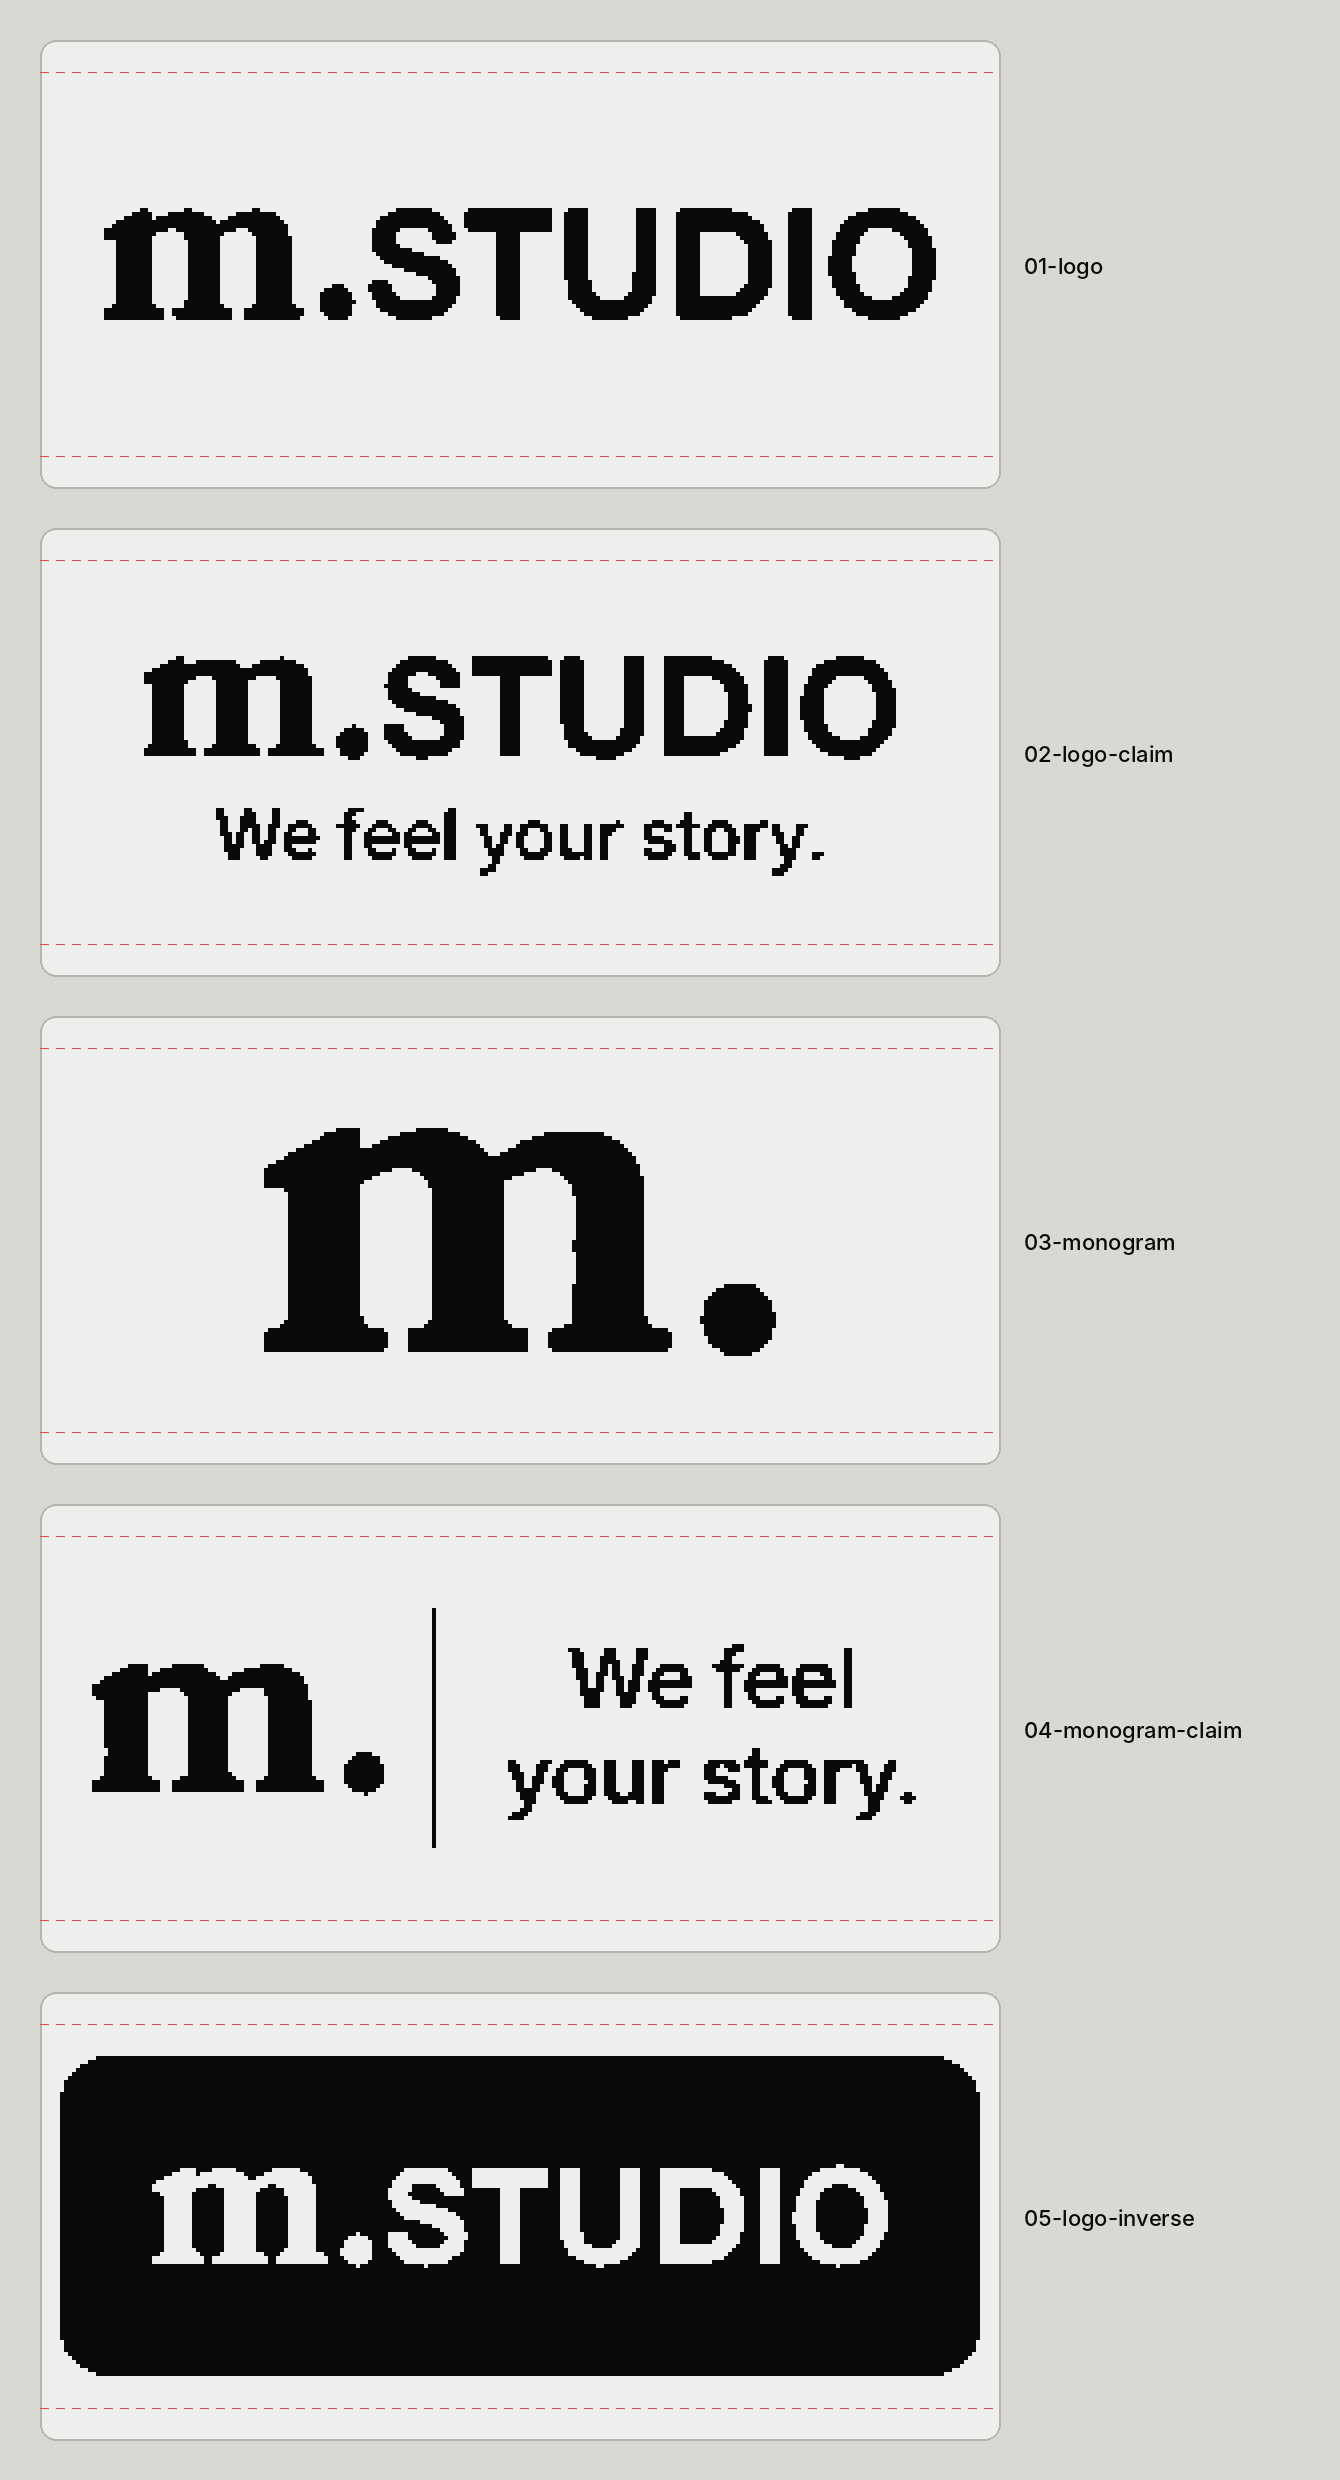
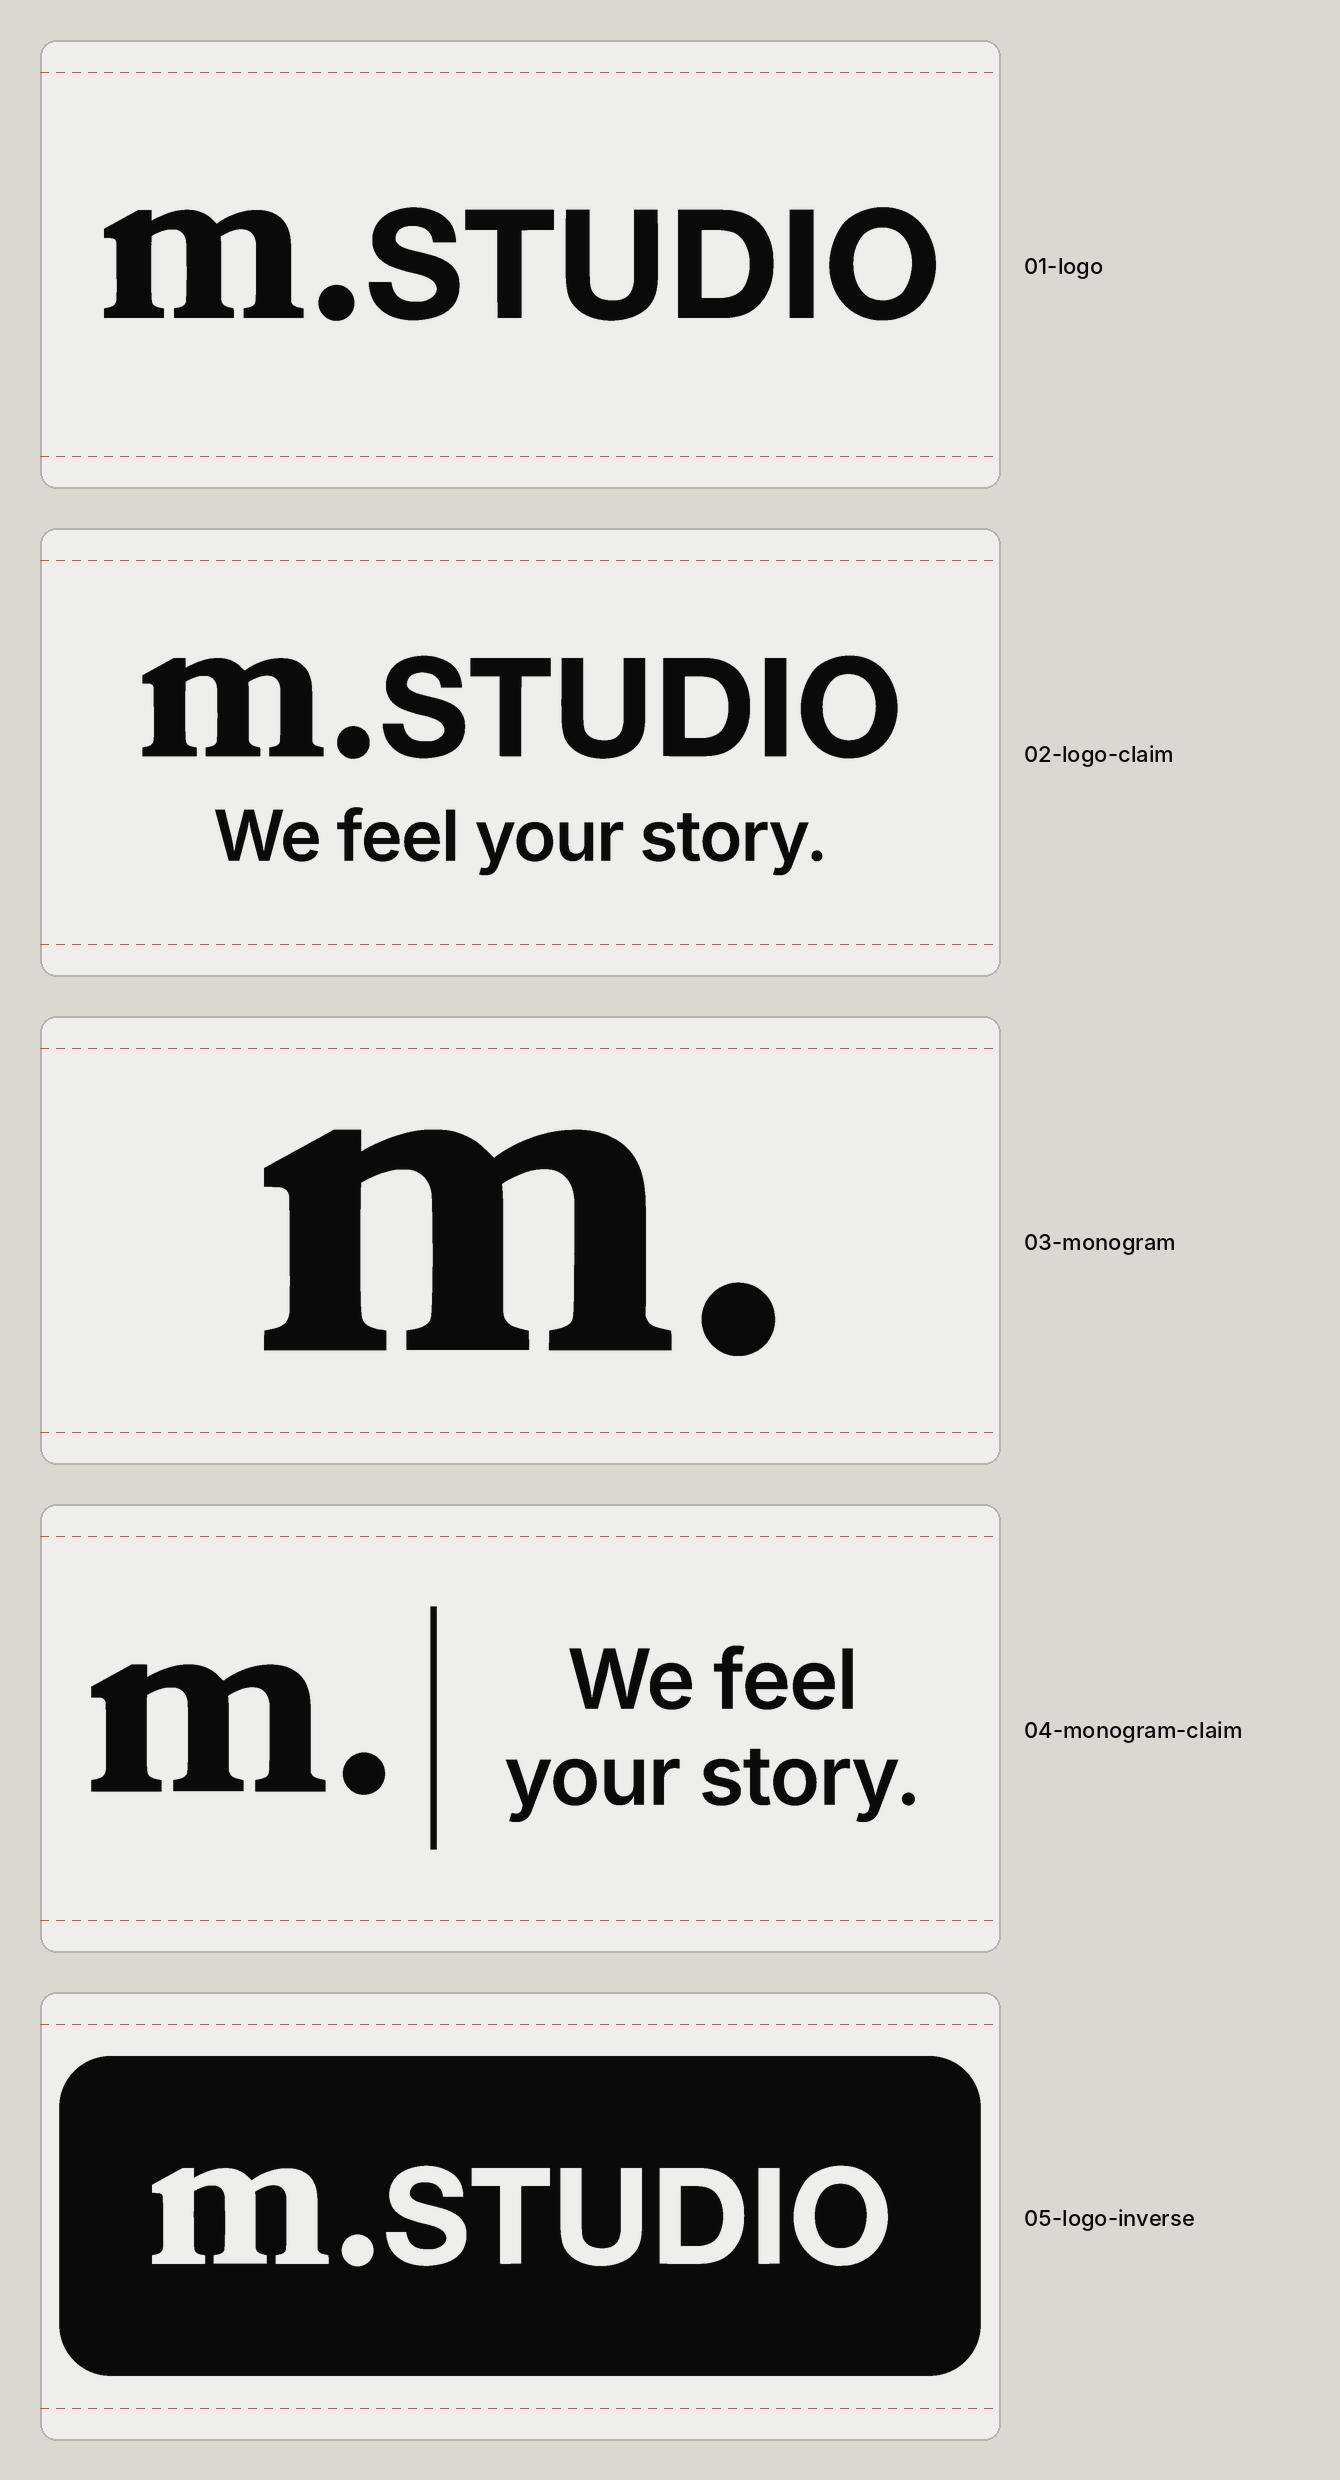
Render the D11 labels as clean high-resolution masters
2400×1120 px black-and-white masters with smooth edges for the NIIMBOT
app, and printer-dot versions area-averaged down from them.

Claude-Session: https://claude.ai/code/session_01JCP1RnrMC4K26PXU5T3zKv

Changed region(s): [[0.3672, 0.0931, 0.3978, 0.1242]]

diff --git a/design/labels/niimbot-d11/rasterize.js b/design/labels/niimbot-d11/rasterize.js
@@ -1,26 +1,23 @@
-// Renders each label SVG to print-ready PNGs at the printer's own resolution,
-// 203 dpi (D11) and 300 dpi (D11-H): 30 × 14 mm → 240 × 112 px and 354 × 165 px.
+// Renders each label SVG to a high-resolution master: 30 × 14 mm at 80 px/mm (2032 dpi),
+// 2400 × 1120 px, so curves and edges stay clean when the NIIMBOT app scales it to the printer.
 // Usage: node rasterize.js <svg-dir> <png-dir>
 const { chromium } = require("playwright");
 const fs = require("fs");
 const path = require("path");
 
 const [svgDir, pngDir] = process.argv.slice(2);
-const SIZES = { "203dpi": [240, 112], "300dpi": [354, 165] };
+const [W, H] = [2400, 1120];
 
 (async () => {
   const browser = await chromium.launch();
-  const page = await browser.newPage();
+  const page = await browser.newPage({ viewport: { width: W, height: H } });
+  fs.mkdirSync(pngDir, { recursive: true });
   for (const file of fs.readdirSync(svgDir).filter((f) => f.endsWith(".svg"))) {
     const svg = fs.readFileSync(path.join(svgDir, file), "utf8");
-    for (const [label, [w, h]] of Object.entries(SIZES)) {
-      await page.setViewportSize({ width: w, height: h });
-      await page.setContent(
-        `<html><body style="margin:0;background:#fff">${svg.replace(/width="30mm" height="14mm"/, `width="${w}" height="${h}"`)}</body></html>`,
-      );
-      fs.mkdirSync(path.join(pngDir, label), { recursive: true });
-      await page.screenshot({ path: path.join(pngDir, label, file.replace(".svg", ".png")), omitBackground: false });
-    }
+    await page.setContent(
+      `<html><body style="margin:0;background:#fff">${svg.replace(/width="30mm" height="14mm"/, `width="${W}" height="${H}"`)}</body></html>`,
+    );
+    await page.screenshot({ path: path.join(pngDir, file.replace(".svg", ".png")) });
   }
   await browser.close();
 })();

diff --git a/design/labels/niimbot-d11/README.md b/design/labels/niimbot-d11/README.md
@@ -10,8 +10,9 @@ D11 tiskne pás široký 12 mm, štítek má 14 mm → grafika je jen v prostře
 | `04-monogram-claim` | „m.“ │ We feel your story. |
 | `05-logo-inverse` | černý pruh s vykrojeným logem (na průhledném štítku vypadá nejlíp) |
 
-- `png/203dpi/` – pro **D11** (240 × 112 px = přesně 30 × 14 mm)
-- `png/300dpi/` – pro **D11-H** (354 × 165 px)
+- `png/hires/` – **tyhle použijte v aplikaci** – 2400 × 1120 px, čisté hrany, aplikace je sama převede pro tiskárnu
+- `png/203dpi/` – přesně body tiskárny **D11** (240 × 112 px), záloha když by aplikace obrázek rozmazávala
+- `png/300dpi/` – přesně body tiskárny **D11-H** (354 × 165 px)
 - `svg/` – vektor 30 × 14 mm pro další úpravy
 
 ## Tisk v aplikaci NIIMBOT
@@ -21,4 +22,4 @@ D11 tiskne pás široký 12 mm, štítek má 14 mm → grafika je jen v prostře
 4. Vypnout ditheringe / „gradace“ pokud je v nastavení obrázku; hustotu tisku (density) dát na 3–4.
 5. Vytisknout nejdřív 1 kus a zkontrolovat, že nic není oříznuté.
 
-Úprava všech návrhů: `python3 generate.py ../../instagram/logo-path.txt svg`, pak `node rasterize.js svg png` (Playwright) a převod na 1-bit.
+Úprava všech návrhů: `python3 generate.py ../../instagram/logo-path.txt svg`, pak `node rasterize.js svg png/hires` (Playwright); 203/300 dpi verze se z nich zmenšují průměrováním a prahují na čistou černou.
